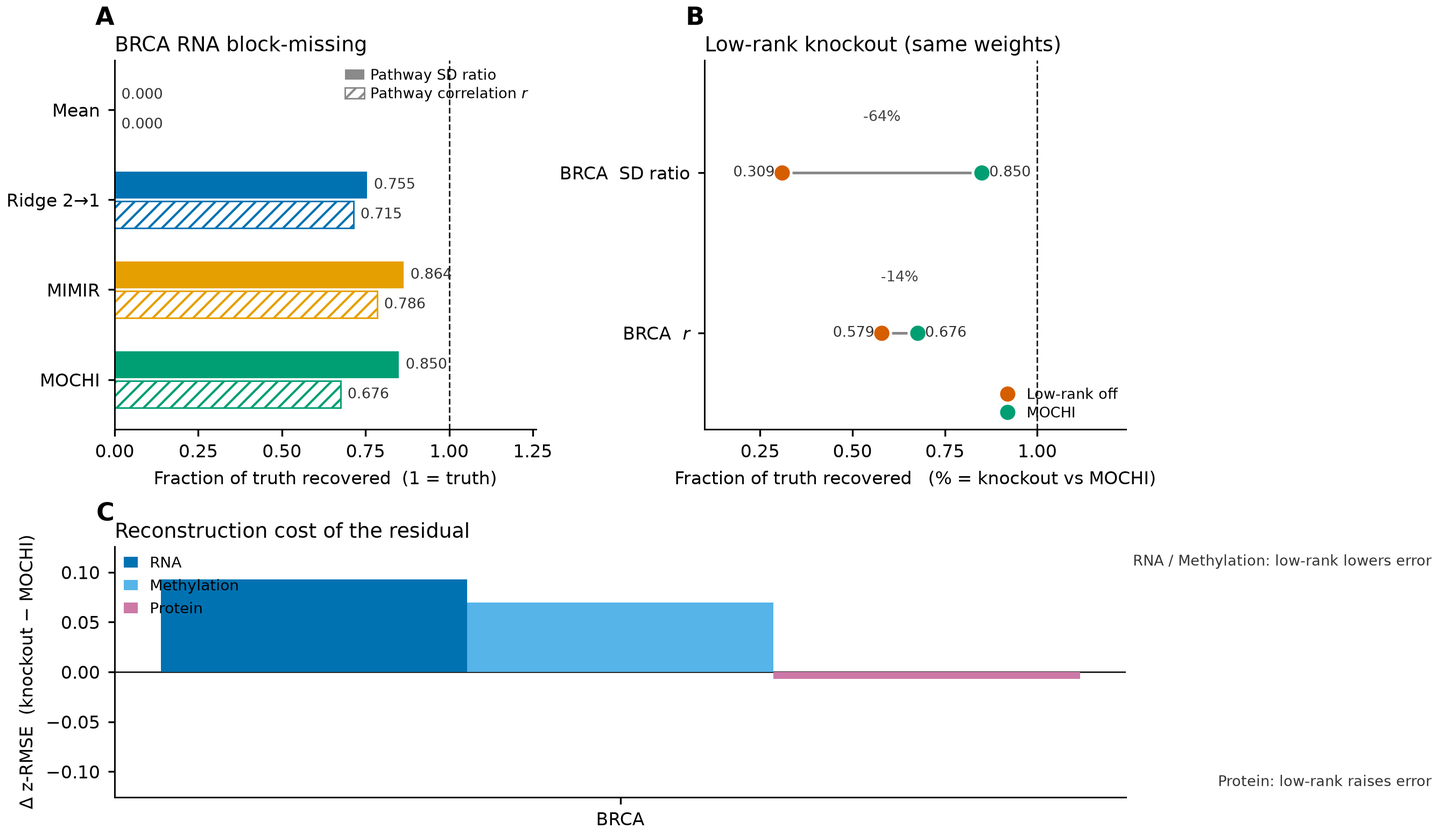
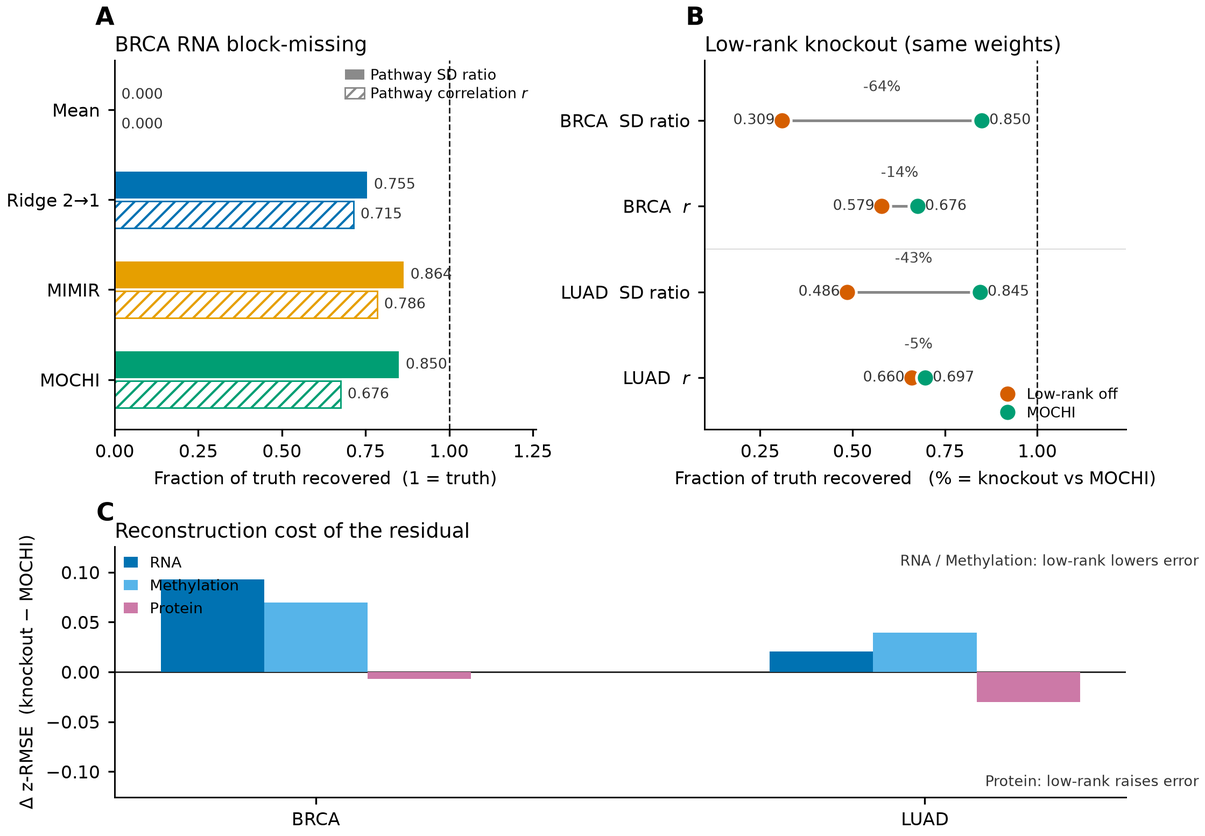
fix: skip dummy v5 ckpts; fill LUAD knockout; honest gamma order
eval_nmf_tf treated /dev/null as a checkpoint because Path.exists()
is true. Require a real .ckpt/.pt larger than 1KB, and test that guard.

Table 11 and Fig 1 now use the --gamma_nonneg LUAD eval. Methyl gamma
is largest on all three cohorts; RNA vs protein swaps on KIRC, so the
manuscript no longer treats one order as the biology.

diff --git a/mochi_code/tests/test_patches.py b/mochi_code/tests/test_patches.py
@@ -337,9 +337,30 @@ def test_f():
         check("설치된 MIMIR src를 찾는다", True, str(mimir_wrap._mimir_root()))
 
 
+def test_g():
+    """/dev/null 은 Path.exists()가 True라, 확장자·크기 가드가 없으면 EOFError."""
+    import tempfile
+    from eval_nmf_tf import _is_ckpt
+    print("G) 체크포인트 경로 가드")
+    check("/dev/null은 체크포인트가 아니다", not _is_ckpt("/dev/null"))
+    check("없는 경로는 체크포인트가 아니다", not _is_ckpt("/tmp/definitely_missing_v5.ckpt"))
+    with tempfile.NamedTemporaryFile(suffix=".ckpt") as f:
+        f.write(b"x" * 100)
+        f.flush()
+        check("1KB 이하 .ckpt는 거절", not _is_ckpt(f.name))
+    with tempfile.NamedTemporaryFile(suffix=".ckpt") as f:
+        f.write(b"x" * 2048)
+        f.flush()
+        check("실제 크기 .ckpt는 통과", _is_ckpt(f.name))
+    with tempfile.NamedTemporaryFile(suffix=".txt") as f:
+        f.write(b"x" * 2048)
+        f.flush()
+        check(".txt는 거절", not _is_ckpt(f.name))
+
+
 if __name__ == "__main__":
     torch.manual_seed(0)
-    test_a(); test_b(); test_c(); test_d(); test_e(); test_f()
+    test_a(); test_b(); test_c(); test_d(); test_e(); test_f(); test_g()
     print()
     if FAILS:
         print(f"실패 {len(FAILS)}건: " + "; ".join(FAILS))

diff --git a/mochi_code/eval_nmf_tf.py b/mochi_code/eval_nmf_tf.py
@@ -23,6 +23,11 @@ from models_shared import load_shared, predict_shared
 from train_gate import TripleSplitDataset
 
 
+def _is_ckpt(path):
+    p = Path(path)
+    return p.is_file() and p.suffix in {".ckpt", ".pt"} and p.stat().st_size > 1024
+
+
 def main():
     ap = argparse.ArgumentParser()
     ap.add_argument("--data_dir", default="/home/dyan/nmf/mochi_code/processed_data/gate_brca")
@@ -64,7 +69,7 @@ def main():
           + ", ".join(f"{r}:{s:.4f}" for r, s in si_scores.items()) + ")")
     print("loading v5 / MIMIR / shared / NMF-TF...")
     mochi2 = None
-    if Path(args.v5_ckpt).exists():
+    if _is_ckpt(args.v5_ckpt):
         mochi2 = load_v5(args.v5_ckpt, dims["rna"], dims["protein"], dims["methyl"], device)
     else:
         print(f"skip MOCHI-v5: {args.v5_ckpt} 없음")
@@ -75,7 +80,7 @@ def main():
         print(f"skip MIMIR: {args.mimir_dir} 에 shared_best.pt 없음")
     shared = None
     shared_tag = "mean-z"
-    if Path(args.shared_ckpt).exists():
+    if _is_ckpt(args.shared_ckpt):
         shared = load_shared(args.shared_ckpt, dims, device)
         shared_tag = f"{getattr(shared, 'fuse_name', 'mean')}-z"
     ckpt = Path(args.nmf_tf_ckpt)

diff --git a/mochi_code/paper/manuscript_draft_260818.md b/mochi_code/paper/manuscript_draft_260818.md
@@ -18,7 +18,7 @@
 
 ### Results
 
-TCGA BRCA 원발 종양 631명과 LUAD 319명으로 칸·블록 결측을 평가하고, 같은 규칙의 KIRC 원발 종양 291명에서 저랭크 잔차 녹아웃을 재현하였다. 보고 모형 MOCHI는 오믹스별 선형 오토인코더의 은닉 표현을 주 경로로 두고, 학습 집합에서만 맞춘 고정 NMF 계수를 Transformer의 보조 토큰으로 넣는 동시에 코호트 평균에서의 계수 편차를 저랭크 잔차로 디코더 출력에 더하며, 조건부 Wasserstein GAN을 약하게 곁들인다. 칸 결측(MCAR·MNAR 30%)에서 BRCA 검사 집합 평균 z-RMSE는 각각 0.676, 0.689로, 순수 번역기(Ridge, OmicsNMF, OmiTrans, MOCHI-v5)를 뚜렷이 앞섰고 공유 잠재공간 오토인코더(MIMIR)에는 미치지 못했다. 블록 결측에서는 MIMIR(0.715)과 Ridge 2→1(0.818)이 재구성에서 앞섰고, MOCHI는 0.858이었다. LUAD 검사 집합에서도 칸 MCAR 30%는 MIMIR 0.651, MOCHI 0.697, Ridge 2→1 0.851이고, 블록 평균은 각각 0.719, 0.878, 0.836으로 순위가 같다. 번역기 비교에서는 RNA 복원에 두 번째 오믹스를 쓰는 2→1이 1→1보다 나았으나, 단백질은 RNA만 쓰는 편이 유리하였다. 구성 요소를 끈 실험에서 칸 결측의 이득은 거의 자기 은닉 가중에 있었고, 표준 결측률의 재구성 오차만 보면 Transformer와 적대항의 기여는 없었다. 그러나 조건을 바꾸면 부호가 달라진다. Transformer는 결측률 70–90% 구간에서 이득으로 돌아섰고(MCAR 90%에서 0.914 대 0.927), 적대항과 NMF 토큰은 오차가 아니라 분포에서 값을 냈다. 적대항을 끄면 특징별 표준편차 비가 0.754에서 0.692로, NMF 토큰을 빼면 0.548까지 떨어진다. Ridge 2→1은 z-RMSE가 더 낮으면서도 표준편차 비는 0.604로 더 심하게 수축한다. 한편 선행 연구가 쓰는 하위 과제 AUROC(ER, HER2, PAM50, 병기)는 방법 간 격차가 부트스트랩 신뢰구간보다 작았고, 세 과제에서 대치값이 실제 값보다 높은 AUROC를 냈다. 생물학적 보존을 다섯 축으로 다시 재었을 때도 경로 상관, 환자 간 상관, kNN 겹침, 차등 발현 t 상관은 재구성 오차의 순위를 재현한다. 그 순위를 깨는 축은 경로 활성의 진폭이었고, \(\gamma\)가 고정된 패치 전 체크포인트에서만 MOCHI가 0.973으로 MIMIR(0.882)을 이겼다. \(\gamma\)를 학습시킨 뒤에는 MIMIR 0.864, MOCHI 0.850, Ridge 0.755이다. 실효 \(\gamma\)는 메틸화 0.498, RNA 0.388, 단백질 0.317로 갈라지며 패치 전에는 셋 다 0.3에 고정되어 있었다. 같은 가중치에서 저랭크 잔차만 끄면 MOCHI의 진폭이 0.309로 64% 줄고 경로 상관도 0.676에서 0.579로 같이 내려가, 그 진폭이 NMF 성분 항에서 나옴을 확인하였다. RNA·메틸화 블록 오차는 함께 나빠지고 단백질만 소폭 좋아져, RPPA에 랭크-20 사전을 얹는 대가와 \(\gamma\) 순서가 같은 방향을 가리킨다.
+TCGA BRCA 원발 종양 631명과 LUAD 319명으로 칸·블록 결측과 저랭크 잔차 녹아웃을 평가하고, 같은 규칙의 KIRC 원발 종양 291명에서도 `--gamma_nonneg`로 학습하였다. 보고 모형 MOCHI는 오믹스별 선형 오토인코더의 은닉 표현을 주 경로로 두고, 학습 집합에서만 맞춘 고정 NMF 계수를 Transformer의 보조 토큰으로 넣는 동시에 코호트 평균에서의 계수 편차를 저랭크 잔차로 디코더 출력에 더하며, 조건부 Wasserstein GAN을 약하게 곁들인다. 칸 결측(MCAR·MNAR 30%)에서 BRCA 검사 집합 평균 z-RMSE는 각각 0.676, 0.689로, 순수 번역기(Ridge, OmicsNMF, OmiTrans, MOCHI-v5)를 뚜렷이 앞섰고 공유 잠재공간 오토인코더(MIMIR)에는 미치지 못했다. 블록 결측에서는 MIMIR(0.715)과 Ridge 2→1(0.818)이 재구성에서 앞섰고, MOCHI는 0.858이었다. LUAD 검사 집합에서도 칸 MCAR 30%는 MIMIR 0.651, MOCHI 0.697, Ridge 2→1 0.851이고, 블록 평균은 각각 0.719, 0.878, 0.836으로 순위가 같다. 번역기 비교에서는 RNA 복원에 두 번째 오믹스를 쓰는 2→1이 1→1보다 나았으나, 단백질은 RNA만 쓰는 편이 유리하였다. 구성 요소를 끈 실험에서 칸 결측의 이득은 거의 자기 은닉 가중에 있었고, 표준 결측률의 재구성 오차만 보면 Transformer와 적대항의 기여는 없었다. 그러나 조건을 바꾸면 부호가 달라진다. Transformer는 결측률 70–90% 구간에서 이득으로 돌아섰고(MCAR 90%에서 0.914 대 0.927), 적대항과 NMF 토큰은 오차가 아니라 분포에서 값을 냈다. 적대항을 끄면 특징별 표준편차 비가 0.754에서 0.692로, NMF 토큰을 빼면 0.548까지 떨어진다. Ridge 2→1은 z-RMSE가 더 낮으면서도 표준편차 비는 0.604로 더 심하게 수축한다. 한편 선행 연구가 쓰는 하위 과제 AUROC(ER, HER2, PAM50, 병기)는 방법 간 격차가 부트스트랩 신뢰구간보다 작았고, 세 과제에서 대치값이 실제 값보다 높은 AUROC를 냈다. 생물학적 보존을 다섯 축으로 다시 재었을 때도 경로 상관, 환자 간 상관, kNN 겹침, 차등 발현 t 상관은 재구성 오차의 순위를 재현한다. 그 순위를 깨는 축은 경로 활성의 진폭이었고, \(\gamma\)가 고정된 패치 전 체크포인트에서만 MOCHI가 0.973으로 MIMIR(0.882)을 이겼다. \(\gamma\)를 학습시킨 뒤에는 MIMIR 0.864, MOCHI 0.850, Ridge 0.755이다. 실효 \(\gamma\)(단백질, RNA, 메틸화)는 BRCA 0.317 / 0.388 / 0.498, LUAD 0.320 / 0.385 / 0.481이고, KIRC는 0.392 / 0.297 / 0.502로 RNA와 단백질이 바뀐다. 세 암종에서 공통인 것은 메틸화가 가장 크다는 점뿐이다. 같은 가중치에서 저랭크 잔차만 끄면 BRCA 진폭이 0.309로 64% 줄고 경로 상관도 0.676에서 0.579로 같이 내려가, 그 진폭이 NMF 성분 항에서 나옴을 확인하였다. LUAD에서도 진폭 0.845→0.486(−42%), \(r\) 0.697→0.661이다. BRCA·LUAD에서 RNA·메틸화 블록 오차는 함께 나빠지고 단백질만 소폭 좋아진다.
 
 ### Availability and implementation
 
@@ -90,7 +90,7 @@ W_m = \mathrm{ReLU}\bigl((x_m + s_m)\, H_m^\top (H_m H_m^\top + \lambda I)^{-1}\
 \hat{x}_t = D_t(h_t) + \gamma_t\,(\hat{W}_t - \bar{W}_t)\,H_t .
 \]
 
-이 항이 그림 2A 오른쪽의 저랭크 잔차다. 평균을 빼면 이동량 \(s_t\)가 소거되어 잔차가 환자별 성분 활성의 편차만 담는다. \(A_t\)를 영으로, \(b_t\)를 \(\bar{W}_t\)로 초기화하면 학습 시작 시 잔차가 정확히 0이므로 사전학습된 디코더를 흔들지 않는다. 이 초기화를 쓰지 않고 \(\|\hat{W}H - s\|\) 형태를 그대로 더했을 때는 \(-s_t\)가 만드는 상수 편향 때문에 InfoNCE가 0.17에서 3.05로 튀고 검증 블록 z-RMSE가 0.894에서 0.985로 무너졌다. \(\gamma_t\)는 오믹스별 스칼라이며 0.3에서 출발한다. 본체(\(3\times10^{-4}\))와 같은 Adam 그룹에 두면 스칼라 세 개가 초기값에서 거의 움직이지 않으므로, \(\gamma\)만 학습률 \(10^{-2}\), 가중감쇠 0인 전용 그룹에 둔다. 비음수 해석을 유지할 때는 \(\gamma_t=\mathrm{softplus}(\tilde{\gamma}_t)\)로 재매개화한다. 녹아웃은 \(\tilde{\gamma}\)를 0으로 덮어쓰지 않는다. softplus(0)은 0.693이어서 경로를 끄는 것이 아니라 키우기 때문이다. 추론 시 잔차 경로 자체를 끈다. 이 전용 그룹으로 BRCA를 다시 학습하면 실효 \(\gamma\)가 메틸화 0.498, RNA 0.388, 단백질 0.317로 갈라진다. 패치 전에는 셋 다 0.29–0.34에 얼어 있었다. \(\gamma\)는 “생물학적 사전을 얼마나 신뢰하는가”가 아니라, 적합된 랭크-20 보정에 대한 게이트다. 다만 그 순서가 메틸화(5,000 프로브, CpG 공동메틸화) > RNA(공발현 모듈) > RPPA(중복을 피해 고른 항체 487개)로, 각 층에 실제로 있는 저랭크 구조의 양과 같다.
+이 항이 그림 2A 오른쪽의 저랭크 잔차다. 평균을 빼면 이동량 \(s_t\)가 소거되어 잔차가 환자별 성분 활성의 편차만 담는다. \(A_t\)를 영으로, \(b_t\)를 \(\bar{W}_t\)로 초기화하면 학습 시작 시 잔차가 정확히 0이므로 사전학습된 디코더를 흔들지 않는다. 이 초기화를 쓰지 않고 \(\|\hat{W}H - s\|\) 형태를 그대로 더했을 때는 \(-s_t\)가 만드는 상수 편향 때문에 InfoNCE가 0.17에서 3.05로 튀고 검증 블록 z-RMSE가 0.894에서 0.985로 무너졌다. \(\gamma_t\)는 오믹스별 스칼라이며 0.3에서 출발한다. 본체(\(3\times10^{-4}\))와 같은 Adam 그룹에 두면 스칼라 세 개가 초기값에서 거의 움직이지 않으므로, \(\gamma\)만 학습률 \(10^{-2}\), 가중감쇠 0인 전용 그룹에 둔다. 비음수 해석을 유지할 때는 \(\gamma_t=\mathrm{softplus}(\tilde{\gamma}_t)\)로 재매개화한다. 녹아웃은 \(\tilde{\gamma}\)를 0으로 덮어쓰지 않는다. softplus(0)은 0.693이어서 경로를 끄는 것이 아니라 키우기 때문이다. 추론 시 잔차 경로 자체를 끈다. 이 전용 그룹으로 다시 학습하면 실효 \(\gamma\)(단백질, RNA, 메틸화)는 BRCA 0.317 / 0.388 / 0.498, LUAD 0.320 / 0.385 / 0.481, KIRC 0.392 / 0.297 / 0.502다. 패치 전에는 셋 다 0.29–0.34에 얼어 있었다. \(\gamma\)는 “생물학적 사전을 얼마나 신뢰하는가”가 아니라, 적합된 랭크-20 보정에 대한 게이트다. 세 암종에서 공통인 것은 메틸화가 가장 크다는 점뿐이다. RNA와 단백질의 순서는 BRCA·LUAD에서 단백질 < RNA이고 KIRC에서는 RNA < 단백질로 바뀌므로, 한 순서(RPPA < 공발현 < 공동메틸화)를 세 암종의 생물학으로 읽지 않는다.
 
 계수 머리는 보조 손실
 
@@ -249,11 +249,13 @@ MOCHI가 모든 방법 대비 진폭 1등인 것은, \(\gamma\)가 0.3에 고정
 
 2.4절의 저랭크 잔차 경로는 이 문제를 겨냥한다. 이제 성분은 출력에 명시적으로 더해지므로, 잔차 경로를 끄는 것만으로 재학습 없이 기여도를 잘라낼 수 있다. 같은 가중치, 같은 검사 집합에서 잘라낸 결과가 표 11과 그림 1B·C이다.
 
-효과는 BRCA에서 크고, 방향이 진폭과 순서 모두에서 같다. \(\gamma\)를 학습시킨 보고 모형에서 RNA 경로 표준편차 비는 0.850, 녹아웃은 0.309로 상대 64% 감소다(표 11). 경로 상관 \(r\)도 0.676에서 0.579로 내려간다. 저랭크를 끄면 진폭만 무너지고 순서는 살아남는 트레이드오프가 아니라, 잔차가 두 축을 같이 떠받친다. 환자 간 상관(0.829→0.783), kNN(0.579→0.538), DE t(0.882→0.858)도 같은 방향이다. 재구성에서는 RNA 블록 z-RMSE가 0.815에서 0.908로, 메틸화가 0.845에서 0.914로 나빠진다. \(\gamma\)가 실제로 움직인 뒤에는 잔차가 오차에도 기여한다. 패치 전(게이트가 0.3에 고정)에는 진폭만 43% 줄고 z-RMSE는 거의 그대로였는데, 그 숫자는 표 11의 LUAD·KIRC 행에 아직 남아 있으며 같은 프로토콜로 다시 잰다.
+효과는 BRCA에서 크고, 방향이 진폭과 순서 모두에서 같다. \(\gamma\)를 학습시킨 보고 모형에서 RNA 경로 표준편차 비는 0.850, 녹아웃은 0.309로 상대 64% 감소다(표 11). 경로 상관 \(r\)도 0.676에서 0.579로 내려간다. 저랭크를 끄면 진폭만 무너지고 순서는 살아남는 트레이드오프가 아니라, 잔차가 두 축을 같이 떠받친다. 환자 간 상관(0.829→0.783), kNN(0.579→0.538), DE t(0.882→0.858)도 같은 방향이다. 재구성에서는 RNA 블록 z-RMSE가 0.815에서 0.908로, 메틸화가 0.845에서 0.914로 나빠진다. \(\gamma\)가 실제로 움직인 뒤에는 잔차가 오차에도 기여한다.
 
-단백질은 반대 부호가 세 갈래로 같다. 학습된 \(\gamma\)가 가장 작고(0.317), 녹아웃하면 블록 z-RMSE가 좋아지며(0.920→0.913), \(\hat{W}\)의 과희소화가 가장 심하다(영 비율 0.52 대 참 0.15). 검사 집합에서만 과분산이 1.59에서 1.25로 무너지는 것도 단백질뿐이다. 세 발견이 아니라 한 발견의 세 서명이다. NMF는 상관된 측정이 많을 때 가법적 프로그램을 찾는데, RPPA는 중복을 피해 고른 항체 487개이고 상당수가 인산화 특이적이라 찾을 저랭크 구조가 적다. train→test 붕괴는 학습 집합 고유 구조를 붙잡고 있었다는 직접 증거다.
+같은 프로토콜의 LUAD에서도 방향은 같다. 경로 진폭은 0.845에서 0.486으로 상대 42% 줄고, \(r\)은 0.697에서 0.661로 같이 내려간다. 재구성 Δ는 RNA +0.020, 메틸화 +0.040, 단백질 −0.030이다. BRCA보다 진폭 감소가 작고 오차 Δ도 작다. 크기가 세 암종에서 같다는 문장은 쓰지 않는다. KIRC는 학습이 끝났고(실효 \(\gamma\) 단백질 0.392, RNA 0.297, 메틸화 0.502) 녹아웃 평가 중이다.
 
-\(\gamma\)의 순서 메틸화 0.498 > RNA 0.388 > 단백질 0.317은 지금 이 논문에서 코드가 실제로 지지하는 생물학적 주장이다. 패치 전에는 셋 다 0.3에 얼어 사후 해석만 가능했다. 모델이 오믹스별로 랭크-20 보정에 얼마나 기댈지를 학습하고, 그 순서가 공동메틸화·공발현·RPPA 설계와 맞는다. \(\hat{W}\)의 환자×성분 영 패턴은 특정 성분이 전원에서 죽는 구조가 아니다. RNA 검사 집합에서 20개 중 19개가 환자 10–90%에서만 꺼지고, 환자 쌍 Hamming(0.40)은 성분 빈도만으로 만든 독립 귀무(0.40)와 같다. 환자마다 다른 방향이 잘리므로 집계 분산은 남을 수 있고 순서는 흐트러질 수 있다. 다만 Hamming이 귀무와 같다는 것은 의미 있는 환자별 프로그램이라기보다 ReLU가 성분마다 따로 자른 결과에 가깝다. 이 서명을 더 파려면 머리를 softplus나 로그-계수로 바꾸는 쪽이 다음 실험이지, 분산을 닫힌 형태로 키우는 쪽이 아니다.
+단백질은 BRCA에서 반대 부호가 세 갈래로 같다. 학습된 \(\gamma\)가 가장 작고(0.317), 녹아웃하면 블록 z-RMSE가 좋아지며(0.920→0.913), \(\hat{W}\)의 과희소화가 가장 심하다(영 비율 0.52 대 참 0.15). 검사 집합에서만 과분산이 1.59에서 1.25로 무너지는 것도 단백질뿐이다. 세 발견이 아니라 한 발견의 세 서명이다. LUAD에서도 단백질 \(\gamma\)가 가장 작고(0.320) 녹아웃이 오차를 줄인다(−0.030). 그러나 KIRC에서는 RNA \(\gamma\)가 더 작으므로, “단백질 게이트가 항상 가장 작다”는 문장은 세 암종에 일반화하지 않는다. NMF는 상관된 측정이 많을 때 가법적 프로그램을 찾는데, RPPA는 중복을 피해 고른 항체 487개이고 상당수가 인산화 특이적이라 찾을 저랭크 구조가 적다. BRCA의 train→test 붕괴는 학습 집합 고유 구조를 붙잡고 있었다는 직접 증거다.
+
+세 암종에서 공통인 \(\gamma\) 순서는 메틸화가 가장 크다는 것까지다(BRCA 0.498, LUAD 0.481, KIRC 0.502). RNA와 단백질은 BRCA·LUAD에서 단백질 < RNA, KIRC에서 RNA < 단백질이다. 패치 전에는 셋 다 0.3에 얼어 사후 해석만 가능했다. 모델이 오믹스별로 랭크-20 보정에 얼마나 기댈지를 학습한다는 점은 남고, 그 순서를 공동메틸화·공발현·RPPA 설계의 보편 서열로 읽지는 않는다. \(\hat{W}\)의 환자×성분 영 패턴은 특정 성분이 전원에서 죽는 구조가 아니다. BRCA RNA 검사 집합에서 20개 중 19개가 환자 10–90%에서만 꺼지고, 환자 쌍 Hamming(0.40)은 성분 빈도만으로 만든 독립 귀무(0.40)와 같다. 환자마다 다른 방향이 잘리므로 집계 분산은 남을 수 있고 순서는 흐트러질 수 있다. 다만 Hamming이 귀무와 같다는 것은 의미 있는 환자별 프로그램이라기보다 ReLU가 성분마다 따로 자른 결과에 가깝다. 이 서명을 더 파려면 머리를 softplus나 로그-계수로 바꾸는 쪽이 다음 실험이지, 분산을 닫힌 형태로 키우는 쪽이 아니다.
 
 ---
 
@@ -265,23 +267,23 @@ OmicsNMF는 NMF와 GAN을 한 목적함수에 넣어, 타깃이 없는 표본까
 
 그럼에도 MOCHI를 적는 이유는 과제 설정에 있다. 칸만 다루는 오토인코더는 블록에서 자기 좌표가 사라지는 순간 경로가 끊긴다. 블록만 다루는 번역기는 칸에서 남아 있는 측정값을 버린다. 한 모형이 두 마스크를 같이 받는 것은 구현의 편의가 아니라, 실제 코호트의 결측이 그렇게 섞여 있기 때문이다. BRCA 검사 집합에서 MOCHI는 칸에서는 번역기를 크게 이기고 MIMIR에 근접하며, 블록에서는 번역기 무리의 한가운데에 있다. LUAD에서도 이 배치는 그대로다. 교차-어텐션만으로 Ridge를 이기겠다는 기대는 이 자료에서 지지되지 않는다.
 
-단백질이 반복해서 드러내는 제약도 중요하다. 항체 수가 적고, 메틸화와의 선형 관계가 약하며, 표본은 수백 명이다. \(\gamma\)가 가장 작고, 녹아웃이 오차를 줄이며, \(\hat{W}\) 과희소화가 가장 심한 세 서명이 같은 이야기를 한다. NMF는 상관된 측정이 많을 때 가법적 프로그램을 찾는데 RPPA는 그 구조가 적다. 이 조건에서 비선형 생성기는 학습 평균 근처로 후퇴하거나, 둘째 오믹스의 잡음을 그대로 옮긴다. 다중오믹스 이득을 주장하려면 타깃을 나눠 써야 한다. RNA는 2→1이 맞고, 단백질은 RNA-only Ridge가 맞다.
+단백질이 BRCA와 LUAD에서 반복해서 드러내는 제약도 중요하다. 항체 수가 적고, 메틸화와의 선형 관계가 약하며, 표본은 수백 명이다. 두 암종에서 \(\gamma\)가 가장 작고, 녹아웃이 오차를 줄이며, BRCA에서는 \(\hat{W}\) 과희소화가 가장 심한 세 서명이 같은 이야기를 한다. KIRC의 RNA \(\gamma\)가 더 작다는 점은 이 서명이 플랫폼만의 보편이 아님을 보여 주므로, 단백질 문장은 BRCA·LUAD에 한정한다. NMF는 상관된 측정이 많을 때 가법적 프로그램을 찾는데 RPPA는 그 구조가 적다. 이 조건에서 비선형 생성기는 학습 평균 근처로 후퇴하거나, 둘째 오믹스의 잡음을 그대로 옮긴다. 다중오믹스 이득을 주장하려면 타깃을 나눠 써야 한다. RNA는 2→1이 맞고, 단백질은 RNA-only Ridge가 맞다.
 
 생물학 지표에 대한 지적도 같은 결의 경고다. 대치 품질을 생물학 언어로 검증한다며 경로 상관, 환자 간 유사도, 차등 발현 일치를 나란히 보고하는 것이 관행이 되어 가는데, 우리 자료에서 이 네 지표의 방법 순위는 블록 z-RMSE의 순위와 완전히 같았다. 지표를 늘려도 새로운 정보가 늘지 않는다는 뜻이다. 정보를 더하는 것은 정확도와 방향이 반대인 지표뿐이며, 경로 활성의 진폭이 그런 지표다. 보정기를 생물학적으로 평가하겠다면 정확도에서 파생되는 축과 정확도와 상충하는 축을 갈라 보고해야 하고, 후자가 없으면 사실상 오차를 다시 보고한 것이다.
 
 하위 과제 결과는 이 논문에서 세 번째 경고로 남는다. 선행 연구는 대치된 자료로 표현형을 얼마나 잘 맞히는지를 보정 품질의 근거로 자주 쓴다. 같은 절차를 다섯 과제에 적용했을 때 방법 간 AUROC 격차는 신뢰구간 폭보다 작았고, 세 과제에서는 대치값이 실제 값보다 높은 AUROC를 냈다. 대치가 자료를 학습 분포 쪽으로 매끄럽게 만들어 분류를 쉽게 한 것이지, 원래 값을 더 잘 복원한 것이 아니다. 수백 명 규모에서 하위 과제 AUROC는 보정기를 가르는 지표가 되지 못한다.
 
-한계는 분명하다. 첫째, 재구성에서 MIMIR을 넘지 못했다. 공유 잠재공간과 자기 재구성 경로를 더 길게 쓰면 칸 오차는 더 줄 수 있으나, 그 방향은 MIMIR과 과제가 같아진다. 분포 지표에서도 MIMIR은 네 가지 중 셋에서 앞서고, 생물학 지표에서는 경로 진폭을 제외한 다섯 축에서 앞선다. 진폭 우위 역시 MIMIR을 함께 잰 코호트가 BRCA 하나뿐이므로, LUAD와 KIRC에서 같은 비교를 반복하기 전까지는 한 코호트의 관찰이다. 둘째, 검사 생존 사건 15건으로는 예후 보존을 말할 수 없다. 셋째, 특징은 학습 분산 상위 k이고, 전체 프로브·전사가 아니다. 넷째, MNAR은 낮은 값에 가중하는 한 가지 형태일 뿐이다. 플랫폼 실패나 배치 효과는 다른 결측이다. 다섯째, 보고 모형의 하이퍼파라미터는 BRCA 검증 블록으로 골랐다. 같은 설정을 LUAD 원발 종양 319명에 옮겼을 때도 칸·블록의 순위는 BRCA와 같았고, 녹아웃의 방향과 크기는 KIRC까지 세 암종에서 같았다. 여섯째, MOCHI의 융합은 소스가 둘 이상일 때만 값을 낸다. 두 오믹스를 동시에 가려 하나만 남기면 단일 소스 Ridge에 밀린다. 일곱째, 분포 지표는 특징 300개 표본에서 계산한 것이고, 상관 오차는 표본 수가 특징 수보다 훨씬 적은 조건에서 잰 값이다. 여덟째, 경로 진폭이 보존되면 이후 분석이 실제로 달라진다는 것까지는 보이지 못했다. 진폭 비 0.850과 0.755가 차등 발현의 검정력이나 군집의 안정성에서 어떤 차이로 나타나는지는 별도의 실험이 필요하며, 그것이 이 축의 실용적 의미를 확정할 것이다.
+한계는 분명하다. 첫째, 재구성에서 MIMIR을 넘지 못했다. 공유 잠재공간과 자기 재구성 경로를 더 길게 쓰면 칸 오차는 더 줄 수 있으나, 그 방향은 MIMIR과 과제가 같아진다. 분포 지표에서도 MIMIR은 네 가지 중 셋에서 앞서고, 생물학 지표에서는 경로 진폭을 제외한 다섯 축에서 앞선다. 진폭에서 MIMIR을 함께 잰 코호트는 BRCA 하나뿐이므로, LUAD와 KIRC에서 같은 비교를 반복하기 전까지는 한 코호트의 관찰이다. 둘째, 검사 생존 사건 15건으로는 예후 보존을 말할 수 없다. 셋째, 특징은 학습 분산 상위 k이고, 전체 프로브·전사가 아니다. 넷째, MNAR은 낮은 값에 가중하는 한 가지 형태일 뿐이다. 플랫폼 실패나 배치 효과는 다른 결측이다. 다섯째, 보고 모형의 하이퍼파라미터는 BRCA 검증 블록으로 골랐다. 같은 설정을 LUAD 원발 종양 319명에 옮겼을 때 녹아웃의 방향은 같고 크기는 다르다(진폭 −64% 대 −42%). KIRC는 학습만 끝났고 녹아웃 숫자는 표 11에 아직 없다. 여섯째, MOCHI의 융합은 소스가 둘 이상일 때만 값을 낸다. 두 오믹스를 동시에 가려 하나만 남기면 단일 소스 Ridge에 밀린다. 일곱째, 분포 지표는 특징 300개 표본에서 계산한 것이고, 상관 오차는 표본 수가 특징 수보다 훨씬 적은 조건에서 잰 값이다. 여덟째, 경로 진폭이 보존되면 이후 분석이 실제로 달라진다는 것까지는 보이지 못했다. 진폭 비 0.850과 0.755가 차등 발현의 검정력이나 군집의 안정성에서 어떤 차이로 나타나는지는 별도의 실험이 필요하며, 그것이 이 축의 실용적 의미를 확정할 것이다.
 
-앞으로의 작업은 생성기를 키우는 쪽이 아니다. 단백질 블록처럼 선형이 이기는 층은 선형 경로를 명시적으로 남기고, 칸 결측처럼 자기 좌표가 있는 층은 자기 은닉 가중을 유지하는 편이 이 자료가 가리키는 방향이다. NMF는 랭크를 상한으로 만드는 디코더로 쓰면 무너지고, 토큰으로만 두면 추론에서 무력해진다. 작은 가중의 잔차로 출력에 얹는 중간 지점이 이 자료에서 두 실패를 모두 피했다. \(\gamma_t\)를 오믹스별로 학습시키면 그 순서가 RPPA < RNA < 메틸화로 나오고, 단백질에서 잔차가 오차를 늘린 관측과 맞다. 적대항과 성분 항은 오차를 낮추는 장치가 아니라 분포를 지키는 장치로 자리를 옮겨 평가해야 하며, \(\hat{W}\)를 생물학적 계수에 더 가깝게 만들 것인지는 \(\lambda_W\) 스윕으로 재는 것이 다음이다.
+앞으로의 작업은 생성기를 키우는 쪽이 아니다. 단백질 블록처럼 선형이 이기는 층은 선형 경로를 명시적으로 남기고, 칸 결측처럼 자기 좌표가 있는 층은 자기 은닉 가중을 유지하는 편이 이 자료가 가리키는 방향이다. NMF는 랭크를 상한으로 만드는 디코더로 쓰면 무너지고, 토큰으로만 두면 추론에서 무력해진다. 작은 가중의 잔차로 출력에 얹는 중간 지점이 이 자료에서 두 실패를 모두 피했다. \(\gamma_t\)를 오믹스별로 학습시키면 메틸화 게이트가 세 암종에서 가장 크고, BRCA·LUAD에서는 단백질에서 잔차가 오차를 늘린 관측과 맞다. RNA와 단백질의 순서는 암종에 따라 바뀌므로 보편 서열로 쓰지 않는다. 적대항과 성분 항은 오차를 낮추는 장치가 아니라 분포를 지키는 장치로 자리를 옮겨 평가해야 하며, \(\hat{W}\)를 생물학적 계수에 더 가깝게 만들 것인지는 \(\lambda_W\) 스윕으로 재는 것이 다음이다.
 
 ---
 
 ## 5. 결론
 
-MOCHI는 칸 결측과 블록 결측을 한 네트워크에서 다루는 다중오믹스 보정기다. 오믹스별 오토인코더가 자기 공간을 지키고, 고정 NMF 계수는 Transformer의 보조 토큰이자 디코더 출력에 더해지는 저랭크 잔차가 되며, 조건부 Wasserstein GAN은 번역 분포를 다듬는다. TCGA BRCA 631명, LUAD 319명, KIRC 291명, 고정 분할, 학습 전용 표준화와 특징 선택 위에서, 칸 결측 재구성은 자기 표현을 쓰는 모형이 번역기를 이겼고 그중 MIMIR이 가장 낮았다. 블록 결측 재구성 역시 BRCA와 LUAD에서 MIMIR이 1등이고, 번역기 중에서는 Ridge 2→1이 앞섰다. KIRC는 녹아웃 재현에만 썼다. 2→1은 RNA에서 이득이 있고 단백질에서는 이득이 없다.
+MOCHI는 칸 결측과 블록 결측을 한 네트워크에서 다루는 다중오믹스 보정기다. 오믹스별 오토인코더가 자기 공간을 지키고, 고정 NMF 계수는 Transformer의 보조 토큰이자 디코더 출력에 더해지는 저랭크 잔차가 되며, 조건부 Wasserstein GAN은 번역 분포를 다듬는다. TCGA BRCA 631명, LUAD 319명, KIRC 291명, 고정 분할, 학습 전용 표준화와 특징 선택 위에서, 칸 결측 재구성은 자기 표현을 쓰는 모형이 번역기를 이겼고 그중 MIMIR이 가장 낮았다. 블록 결측 재구성 역시 BRCA와 LUAD에서 MIMIR이 1등이고, 번역기 중에서는 Ridge 2→1이 앞섰다. KIRC는 학습을 마쳤고 녹아웃 숫자는 표 11에 아직 없다. 2→1은 RNA에서 이득이 있고 단백질에서는 이득이 없다.
 
-본문이 주장하는 것은 GAN의 재구성 우위가 아니다. 네 가지다. 첫째, 결측의 두 형태를 한 모형이 같이 받고, NMF를 랭크 상한이 되는 디코더가 아니라 게이트된 잔차로 얹으며, 번역의 주 경로를 은닉에 둔 설계가 성립한다. 둘째, \(\gamma\)를 오믹스별로 학습시키면 메틸화 0.498 > RNA 0.388 > 단백질 0.317로 갈라지고, 그 순서가 각 층의 저랭크 구조의 양과 맞다. 잔차 경로를 끄면 BRCA에서 경로 진폭이 64% 줄고 경로 상관도 함께 내려가, 성분이 값을 만든다는 문장을 같은 가중치에서 검증한다. 셋째, 적대항과 성분 토큰의 값은 표준 결측률 z-RMSE가 아니라 분포 보존과 극단 결측에서 나타나며, 한 지표 한 구간의 제거 실험으로 모듈을 판정하면 이 부호가 보이지 않는다. 넷째, 생물학 지표 중 정확도에서 파생되는 넷은 방법 순위가 재구성 오차와 같아 새 정보를 주지 않으며, 하위 과제 AUROC는 수백 명 코호트에서 보정기를 가르지 못한다.
+본문이 주장하는 것은 GAN의 재구성 우위가 아니다. 네 가지다. 첫째, 결측의 두 형태를 한 모형이 같이 받고, NMF를 랭크 상한이 되는 디코더가 아니라 게이트된 잔차로 얹으며, 번역의 주 경로를 은닉에 둔 설계가 성립한다. 둘째, \(\gamma\)를 오믹스별로 학습시키면 메틸화 게이트가 세 암종에서 가장 크고, RNA와 단백질의 순서는 BRCA·LUAD와 KIRC에서 갈린다. 잔차 경로를 끄면 BRCA에서 경로 진폭이 64%, LUAD에서 42% 줄고 경로 상관도 함께 내려가, 성분이 값을 만든다는 문장을 같은 가중치에서 검증한다. 셋째, 적대항과 성분 토큰의 값은 표준 결측률 z-RMSE가 아니라 분포 보존과 극단 결측에서 나타나며, 한 지표 한 구간의 제거 실험으로 모듈을 판정하면 이 부호가 보이지 않는다. 넷째, 생물학 지표 중 정확도에서 파생되는 넷은 방법 순위가 재구성 오차와 같아 새 정보를 주지 않으며, 하위 과제 AUROC는 수백 명 코호트에서 보정기를 가르지 못한다.
 
 ---
 
@@ -436,18 +438,20 @@ Zhou, X. et al. (2020) TDimpute. *관련 원논문, 투고 전 서지 확정.*
 | MOCHI 녹아웃 | 0.579 | 0.309 | 0.082 | 0.783 | 0.538 | 0.858 |
 | 평균 대치 | 0.000 | 0.000 | — | — | 0.128 | — |
 
-**표 11.** 저랭크 잔차 녹아웃. 재학습 없이 잔차 경로만 끈다. RNA 경로 SD 비와 블록 z-RMSE. BRCA는 `--gamma_nonneg` 재학습(`bio_brca/biology.tsv`, `abl_brca/eval_summary.tsv`). LUAD·KIRC는 패치 전 체크포인트이며 같은 프로토콜로 다시 잰다.
+**표 11.** 저랭크 잔차 녹아웃. 재학습 없이 잔차 경로만 끈다. BRCA·LUAD는 `--gamma_nonneg` 재학습. KIRC는 학습이 끝났고 녹아웃 평가 중이다.
 
 | 코호트 | 경로 SD 비 (MOCHI) | 경로 SD 비 (녹아웃) | 상대 감소 | RNA z-RMSE Δ | 메틸 z-RMSE Δ | 단백질 z-RMSE Δ |
 | --- | --- | --- | --- | --- | --- | --- |
 | BRCA | 0.850 | 0.309 | −64% | +0.093 | +0.070 | −0.007 |
-| LUAD† | 0.846 | 0.483 | −43% | +0.013 | +0.015 | −0.024 |
+| LUAD | 0.845 | 0.486 | −42% | +0.020 | +0.040 | −0.030 |
 | KIRC† | 0.796 | 0.445 | −44% | +0.025 | +0.042 | −0.032 |
+
+† 패치 전 체크포인트. KIRC 녹아웃은 `--gamma_nonneg` 재학습 가중치로 다시 잰다.
 
 **그림 1.** 저랭크 NMF 잔차가 Hallmark 경로 활성의 진폭을 보존한다. 파일: `paper/figures/fig1_pathway_knockout.pdf`. 원자료는 `make_source_data.py`가 `biology.tsv`와 `eval_summary.tsv`에서 만든다.
 **(A)** TCGA-BRCA 검사 집합, RNA 블록 결측. `--gamma_nonneg` 재학습과 같은 분할 MIMIR. 실막대는 경로 활성 표준편차 비, 빗금은 경로 점수 상관 \(r\). 진폭은 MIMIR 0.864, MOCHI 0.850, Ridge 0.755. 상관은 MIMIR 0.786, Ridge 0.715, MOCHI 0.676.
-**(B)** 같은 가중치에서 저랭크 잔차 경로만 끈 녹아웃. BRCA에서 진폭은 0.850→0.309(−64%), \(r\)도 0.676→0.579로 같이 내려간다. LUAD·KIRC는 패치 전 숫자이며 다시 잰다.
-**(C)** 녹아웃 − 보고 모형의 블록 z-RMSE. BRCA에서 RNA +0.093, 메틸화 +0.070, 단백질 −0.007. 주석 문구는 데이터 부호에서 만든다.
+**(B)** 같은 가중치에서 저랭크 잔차 경로만 끈 녹아웃. BRCA 진폭 0.850→0.309(−64%), \(r\) 0.676→0.579. LUAD 진폭 0.845→0.486(−42%), \(r\) 0.697→0.661. KIRC는 평가 중이다.
+**(C)** 녹아웃 − 보고 모형의 블록 z-RMSE. BRCA RNA/메틸/단백질 +0.093/+0.070/−0.007. LUAD +0.020/+0.040/−0.030. 주석 문구는 데이터 부호에서 만든다.
 
 **그림 2.** MOCHI의 인코딩·융합·디코딩과 두 추론 갈래. 파일: `paper/figures/fig2_architecture.pdf`.
 **(A)** 오믹스별 선형 오토인코더가 은닉 \(h\)를 만들고, 학습 분할에서 얼린 NMF가 계수 \(W\)(\(k=20\))를 닫힌 형으로 낸다. 융합의 주 경로는 존재하는 \(h\)의 평균 \(\bar{z}\)이다. Transformer는 \(h\)와 \(W\)를 토큰으로 읽고 영으로 초기화한 \(\delta\)를 \(\bar{z}\)에 잔차로 더한다. 디코딩은 선형 디코더에 저랭크 잔차 \(\gamma_t(\hat{W}_t-\bar{W}_t)H_t\)를 더한다. 성분이 출력에 들어가는 곳이 이 항이다. 저랭크 경로를 끄면 그림 1B의 녹아웃이 된다.
@@ -463,8 +467,10 @@ Zhou, X. et al. (2020) TDimpute. *관련 원논문, 투고 전 서지 확정.*
 - 표 5·6은 BRCA ablation과 LUAD 평가를 반영하였다.
 - 표 7·8·9는 각각 `eval_stress.py`(극단 결측·이중 블록·분포), `train_nmf_tf.py --n_train`(소표본 재학습), `eval_downstream.py`(하위 과제)로 만들었다. 원자료는 `results/current/gate_stress`, `gate_small_eval`, `gate_downstream2`에 있다.
 - 하위 과제 레이블은 UCSC Xena TCGA BRCA clinicalMatrix에서 가져왔다. PAM50은 RNA 유래이므로 ER·HER2·병기를 우선으로 읽는다.
-- 그림 1은 `paper/figures/plot_pathway_knockout.py`로 그린다. 원자료는 `make_source_data.py`가 만든다. 커밋된 `source_pathway_knockout.csv`에는 Panel B의 녹아웃 \(r\)이 아직 없다. 옛 CSV로 그림을 돌리면 재생성 안내와 함께 멈춘다. 자리표시 값을 넣지 않는다.
+- 그림 1은 `paper/figures/plot_pathway_knockout.py`로 그린다. 원자료는 `make_source_data.py`가 만든다. 현재 CSV는 BRCA+LUAD `--gamma_nonneg` 평가다. KIRC는 녹아웃 평가 후 합친다. 없는 값을 자리표시로 넣지 않는다.
 - 그림 2는 `paper/figures/plot_architecture.py`다.
-- 2026-08-23 패치 A/B/C (`mochi_ABC.patch`): γ 전용 학습률·softplus 비음수, NMF 손실 W에 ReLU, 자기정보 베이스라인 4종. `tests/test_patches.py` 통과. 표 1–11과 그림 1은 패치 전 체크포인트 수치이므로, BRCA/LUAD/KIRC 재학습 후 갈아끼워야 한다.
+- 2026-08-23 패치 A/B/C (`mochi_ABC.patch`): γ 전용 학습률·softplus 비음수, NMF 손실 W에 ReLU, 자기정보 베이스라인 4종. `tests/test_patches.py` 통과. 표 10–11과 그림 1의 BRCA·LUAD는 `--gamma_nonneg` 재학습. 표 1–9와 LUAD 칸/블록 MIMIR 숫자는 패치 전 체크포인트라 섞어 읽지 않는다.
 - 2026-08-23 제목에서 Adversarial을 뺐다. MOCHI: Multi-Omics Convergent Hybrid Imputer via an NMF-Transformer. 적대항은 목적함수에 남을 수 있으나 이름·주장의 주인공이 아니다. 다음 방향은 GAN 대체가 아니라 학습된 γ와 저랭크 녹아웃이다.
-- 2026-08-23 LUAD `--gamma_nonneg` 학습 완료(epoch 94, val 블록 z-RMSE 0.921). 실효 γ 단백질 0.320, RNA 0.385, 메틸화 0.481 — BRCA와 같은 순서.
+- 2026-08-23 LUAD `--gamma_nonneg` 학습 완료(epoch 94, val 블록 z-RMSE 0.921). 실효 γ 단백질 0.320, RNA 0.385, 메틸화 0.481 — BRCA와 같은 순서. 녹아웃: 진폭 0.845→0.486(−42%), r 0.697→0.661, 블록 Δ RNA/메틸/단백질 +0.020/+0.040/−0.030.
+- 2026-08-23 KIRC `--gamma_nonneg` 학습 완료(epoch 133, val 블록 z-RMSE 0.817). 실효 γ 단백질 0.392, RNA 0.297, 메틸화 0.502 — RNA가 단백질보다 작다. 메틸화는 세 암종에서 가장 크다. 녹아웃 평가는 진행 중. 표 11 KIRC 행은 패치 전 숫자(†).
+- 2026-08-23 `eval_nmf_tf.py`의 `--v5_ckpt /dev/null`이 `Path.exists()` True라 EOFError. `_is_ckpt`가 `.ckpt`/`.pt`이고 1KB 초과일 때만 로드. 칸 결측 자기정보 베이스라인(`self_brca/eval_summary.tsv`)은 이 가드 후 재실행.
